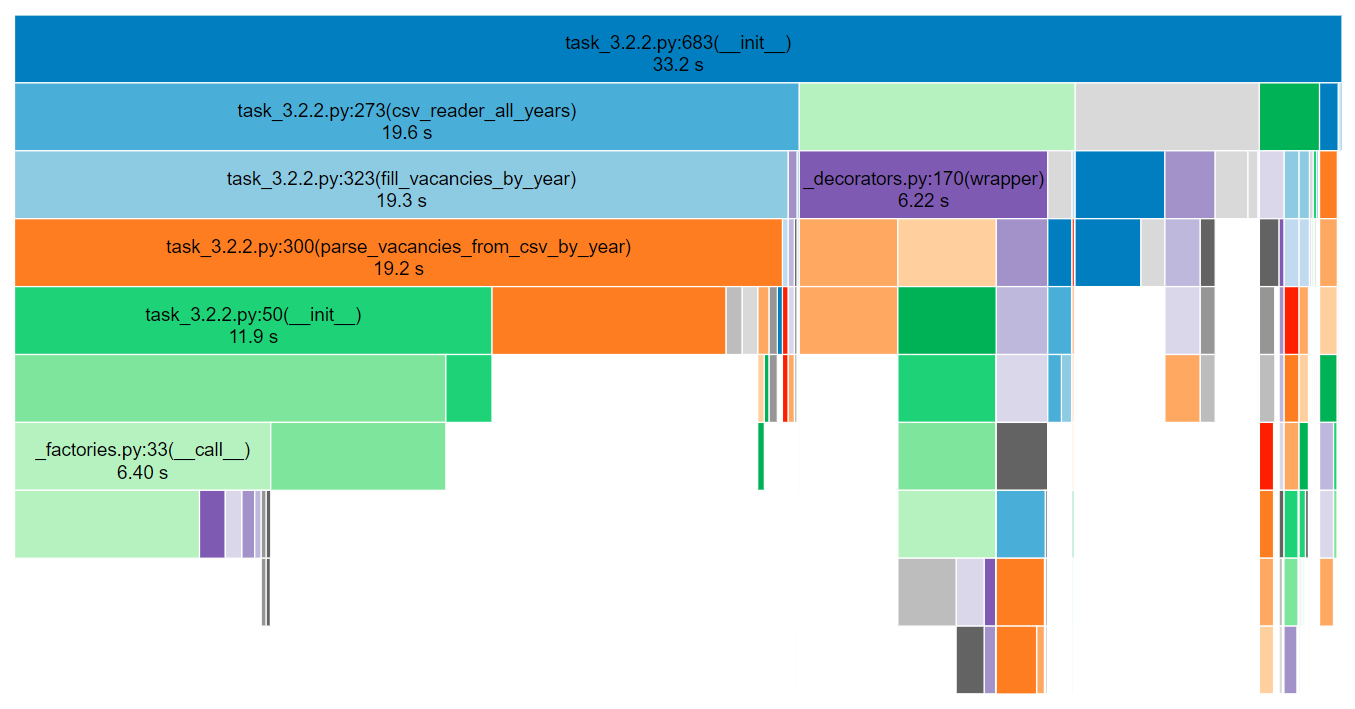
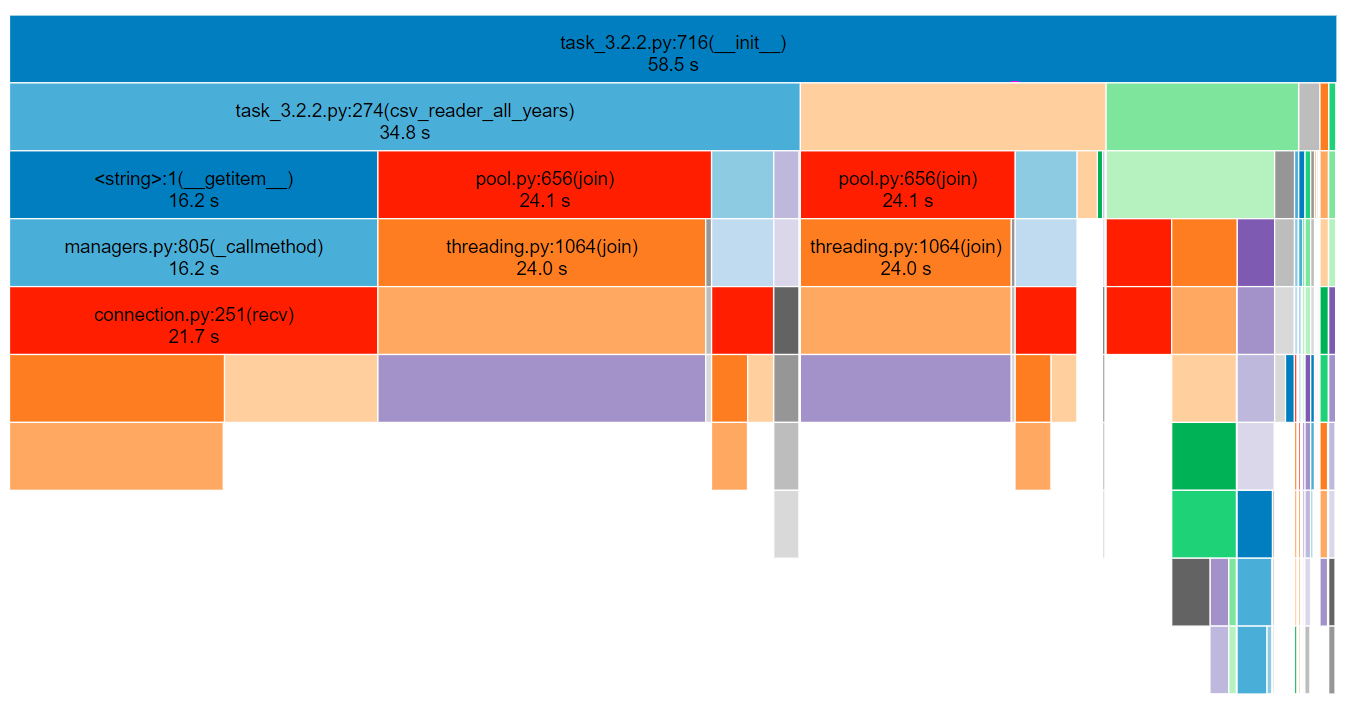
Исправил обработку с использованием multiprocessing

diff --git a/task_3.2.2.py b/task_3.2.2.py
@@ -1,4 +1,5 @@
 import cProfile
+import concurrent.futures
 import csv
 import re
 import itertools
@@ -274,13 +275,17 @@ class DataSet:
         """Открывает csv файлы, разделенные по годам, для чтения и заполняет список вакансий по годам."""
         csv_files_by_years_dir_path = "./splitted_csv/"
         years_filenames = [f for f in os.listdir(csv_files_by_years_dir_path) if isfile(join(csv_files_by_years_dir_path, f))]
+
         pool = mp.Pool(processes=4)
-        for year_filename in years_filenames:
-            year = int(year_filename.split('.')[0])
-            path_to_year_csv = "./splitted_csv/" + year_filename
-            pool.apply_async(self.fill_vacancies_by_year(path_to_year_csv, year))
-        pool.close()
-        pool.join()
+        with mp.Manager() as manager:
+            vacancies_by_year = manager.dict()
+            for year_filename in years_filenames:
+                year = int(year_filename.split('.')[0])
+                path_to_year_csv = csv_files_by_years_dir_path + year_filename
+                pool.apply_async(DataSet.fill_vacancies_by_year, args=(vacancies_by_year, path_to_year_csv, year))
+            pool.close()
+            pool.join()
+            self.vacancies_by_year = dict(vacancies_by_year)
 
     @staticmethod
     def get_csv_reader_by_year(path_to_year_csv: str):
@@ -297,16 +302,17 @@ class DataSet:
         list_naming = next(reader_by_year)
         return reader_by_year, list_naming
 
-    def parse_vacancies_from_csv_by_year(self, reader_by_year, list_naming, year: int):
+    @staticmethod
+    def parse_vacancies_from_csv_by_year(vacancies_by_year: dict, reader_by_year, list_naming, year: int):
         """Заполняет список вакансий по указанному году, используя переданный csv reader.
 
         Args:
+            vacancies_by_year (dict): Словарь, содержащий списки вакансий по годам
             reader_by_year: Сsv reader для указанного года
             list_naming (list): Список столбцов
             year (int): Год
         """
-        if year not in self.vacancies_by_year:
-            self.vacancies_by_year[year] = []
+        vacancies = []
         for line in reader_by_year:
             if len(line) == len(list_naming) and '' not in line:
                 name = line[0]
@@ -318,43 +324,56 @@ class DataSet:
                 published_at = line[5]
                 vacancy = Vacancy(name, salary, area_name, published_at)
                 salary.rub_average = salary.get_rub_average()
-                self.vacancies_by_year[year].append(vacancy)
+                vacancies.append(vacancy)
+        vacancies_by_year[year] = vacancies
 
-    def fill_vacancies_by_year(self, path_to_year_csv: str, year: int):
+    @staticmethod
+    def fill_vacancies_by_year(vacancies_by_year: dict, path_to_year_csv: str, year: int):
         """Заполняет список вакансий по указанному csv файлу и году.
 
         Args:
+            vacancies_by_year (dict): Словарь, содержащий списки вакансий по годам
             path_to_year_csv (str): Путь до csv файла, содержащий вакансии за указанный год
             year (int): Год
         """
         reader_by_year, list_naming = DataSet.get_csv_reader_by_year(path_to_year_csv)
-        self.parse_vacancies_from_csv_by_year(reader_by_year, list_naming, year)
+        DataSet.parse_vacancies_from_csv_by_year(vacancies_by_year, reader_by_year, list_naming, year)
 
-    def process_statistics_by_year(self, year: int, selected_vacancy: str):
+    @staticmethod
+    def process_statistics_by_year(vacancies: list, salary_by_year: dict,
+                                   vacancies_count_by_year: dict, selected_vacancy_salary_by_year: dict,
+                                   selected_vacancy_count_by_year: dict, year: int, selected_vacancy: str):
         """Производит расчет статистики по требуемой профессии в указанный год.
 
         Args:
+            vacancies (list): Список вакансий для обработки
+            salary_by_year (dict): Словарь зарплат по годам
+            vacancies_count_by_year (dict): Словарь количества вакансий по годам
+            selected_vacancy_salary_by_year (dict): Словарь зарплат по годам для выбранной профессии
+            selected_vacancy_count_by_year (dict): Словарь количества вакансий по годам для выбранной профессии
             year (int): Год
             selected_vacancy (str): Профессия, по которой требуется получить статистику
         """
-        for vacancy in self.vacancies_by_year[year]:
+        salary_by_year_result = 0
+        vacancies_count_by_year_result = 0
+        selected_vacancy_salary_by_year_result = 0
+        selected_vacancy_count_by_year_result = 0
+        for vacancy in vacancies:
             salary = vacancy.salary.get_rub_average()
-            if year not in self.salary_by_year:
-                self.salary_by_year[year] = 0
-                self.vacancies_count_by_year[year] = 0
-            self.salary_by_year[year] += salary
-            self.vacancies_count_by_year[year] += 1
+            salary_by_year_result += salary
+            vacancies_count_by_year_result += 1
             if selected_vacancy in vacancy.name and selected_vacancy != '':
-                if year not in self.selected_vacancy_salary_by_year:
-                    self.selected_vacancy_salary_by_year[year] = 0
-                    self.selected_vacancy_count_by_year[year] = 0
-                self.selected_vacancy_salary_by_year[year] += salary
-                self.selected_vacancy_count_by_year[year] += 1
-        self.salary_by_year[year] = int(self.salary_by_year[year] / self.vacancies_count_by_year[year])
+                selected_vacancy_salary_by_year_result += salary
+                selected_vacancy_count_by_year_result += 1
+        salary_by_year_result = int(salary_by_year_result / vacancies_count_by_year_result)
+        salary_by_year[year] = salary_by_year_result
+        vacancies_count_by_year[year] = vacancies_count_by_year_result
         if selected_vacancy:
-            if self.selected_vacancy_salary_by_year[year] != 0:
-                self.selected_vacancy_salary_by_year[year] = int(
-                    self.selected_vacancy_salary_by_year[year] / self.selected_vacancy_count_by_year[year])
+            if selected_vacancy_salary_by_year_result != 0:
+                selected_vacancy_salary_by_year_result = int(
+                    selected_vacancy_salary_by_year_result / selected_vacancy_count_by_year_result)
+        selected_vacancy_salary_by_year[year] = selected_vacancy_salary_by_year_result
+        selected_vacancy_count_by_year[year] = selected_vacancy_count_by_year_result
 
     def process_statistics_all_years(self, selected_vacancy: str):
         """Производит расчет статистики для требуемой профессии по всем годам.
@@ -363,10 +382,24 @@ class DataSet:
             selected_vacancy (str): Профессия, по которой требуется получить статистику
         """
         pool = mp.Pool(processes=4)
-        for year in self.vacancies_by_year:
-            pool.apply_async(self.process_statistics_by_year(year, selected_vacancy))
-        pool.close()
-        pool.join()
+        with mp.Manager() as manager:
+            salary_by_year = manager.dict()
+            vacancies_count_by_year = manager.dict()
+            selected_vacancy_salary_by_year = manager.dict()
+            selected_vacancy_count_by_year = manager.dict()
+            for year in self.vacancies_by_year:
+                vacancies = self.vacancies_by_year[year]
+                pool.apply_async(DataSet.process_statistics_by_year, args=(vacancies, salary_by_year,
+                                                                           vacancies_count_by_year,
+                                                                           selected_vacancy_salary_by_year,
+                                                                           selected_vacancy_count_by_year,
+                                                                           year, selected_vacancy))
+            pool.close()
+            pool.join()
+            self.salary_by_year = dict(salary_by_year)
+            self.vacancies_count_by_year = dict(vacancies_count_by_year)
+            self.selected_vacancy_salary_by_year = dict(selected_vacancy_salary_by_year)
+            self.selected_vacancy_count_by_year = dict(selected_vacancy_count_by_year)
         vacancies_count = sum([len(self.vacancies_by_year[year]) for year in self.vacancies_by_year])
         for year in self.vacancies_by_year:
             for vacancy in self.vacancies_by_year[year]:
@@ -639,7 +672,6 @@ class InputConnect:
         """Получает необходимые данные ввода от пользователя."""
         self.output_type = input()
         self.csv_file_name = input("Введите название файла: ")
-        # self.csv_file_name = "vacancies_medium.csv"
         if self.output_type == "Вакансии":
             self.filter_parameter = input("Введите параметр фильтрации: ").split(": ")
             self.sorting_parameter = input("Введите параметр сортировки: ")
